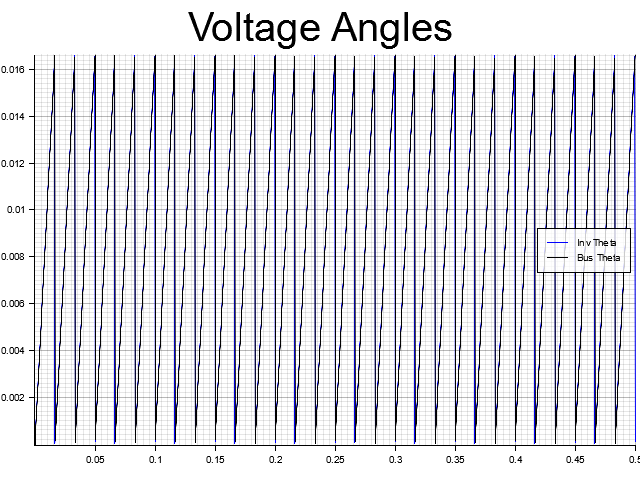
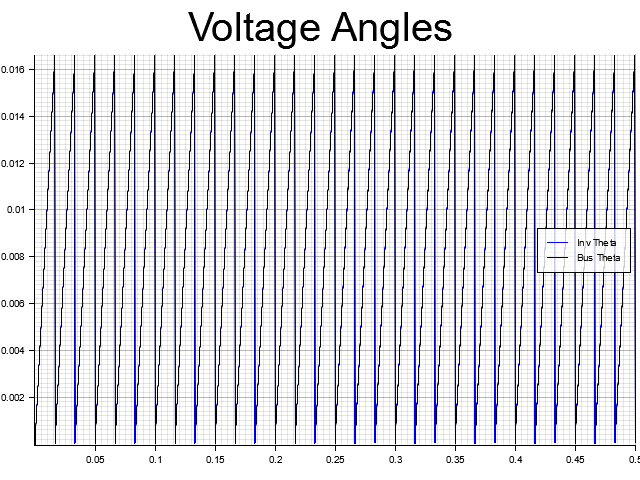
Test with I8F24 fixed-point

Changed region(s): [[0.0625, 0.1562, 1.0, 0.8438], [0.8438, 0.1562, 0.9062, 0.4688], [0.9375, 0.2188, 1.0, 0.5]]

diff --git a/src/main.rs b/src/main.rs
@@ -9,8 +9,8 @@ use unifi_gfm::refs::*;
 use unifi_gfm::sims::*;
 use unifi_gfm::constants::*;
 use fixed::traits::FromFixed;
-type FxdSim = fixed::types::I38F26;
-type FxdNum = fixed::types::I10F22; // TODO: Test with 32-bit fixed-point number and figure out what is overflowing (Seems to be related to current dynamics)
+type FxdSim = fixed::types::I32F32;
+type FxdNum = fixed::types::I8F24; // TODO: Test with 32-bit fixed-point number and figure out what is overflowing (Seems to be related to current dynamics)
 // TODO: Test how fast this runs with the package having a single fixed-point value selected (No / fewer conversions to fixed). 
 // Currently running this sim with I32F32 values takes ~20s
 
@@ -30,9 +30,8 @@ fn main() -> Result<(), Box<dyn std::error::Error>> {
     */
     let v_nom: f32 = 80.;
     let f_nom: f32 = 60.;
-    let f_nom: f32 = f_nom;
     let s_rated: f32 = 1000.;
-    let dt: f32 = 2.0e-4_f32;
+    let dt: f32 = 1.0e-4_f32;  // 10 kHz switching frequency
     let xi: f32 = 15.;
     let c: f32 = 0.2679;
     let _pi: f32 = PI.lossy_into();
@@ -96,14 +95,14 @@ fn main() -> Result<(), Box<dyn std::error::Error>> {
         // Step the system
         for n in 0..cont_n_steps {
             // Calculate power
-            let v = AlphaBeta::from_polar(FxdSim::from_fixed(inv.x[(0)]), FxdSim::from_fixed(inv.x[(1)] * inv.w_nom));
+            let v = AlphaBeta::from_polar(FxdSim::from_fixed(inv.x[(0)]), FxdSim::from_fixed(TWO)*FxdSim::from_fixed(PI) * FxdSim::from_fixed(inv.x[(1)] * inv.f_nom));
             let i = AlphaBeta::<FxdSim>::from_ab_(line.x[(0)], line.x[(1)]);
             (p, q) = calc_ab_power(v, i);
             p_values[(cont_n_steps*step + n) as usize] = (t + (n as f32)*cont_dt, p.lossy_into());
             q_values[(cont_n_steps*step + n) as usize] = (t + (n as f32)*cont_dt, q.lossy_into());
             bus.step_(cont_dt_);
-            line.step(cont_dt_, [FxdSim::from_fixed(inv.x[(0)]), FxdSim::from_fixed(inv.x[(1)] * inv.w_nom), 
-                                  bus.x[(0)], bus.x[(1)] * bus.w_nom]);
+            line.step(cont_dt_, [FxdSim::from_fixed(inv.x[(0)]), FxdSim::from_fixed(TWO)*FxdSim::from_fixed(PI) * FxdSim::from_fixed(inv.x[(1)] * inv.f_nom), 
+                                  bus.x[(0)], FxdSim::from_fixed(TWO)*FxdSim::from_fixed(PI) * bus.x[(1)] * bus.f_nom]);  // TODO: Determine why FxdSim::from_fixed(TWO*PI) overflows...
         }
 
         // Step the controller after a z^-1 delay

diff --git a/src/bin/droop_sim.rs b/src/bin/droop_sim.rs
@@ -10,7 +10,7 @@ use unifi_gfm::sims::*;
 use unifi_gfm::constants::*;
 use fixed::traits::FromFixed;
 type FxdSim = fixed::types::I32F32;
-type FxdNum = fixed::types::I10F22;  // TODO: Work on getting 32-bit fixed-point numbers to be accurate enough for the droop controller
+type FxdNum = fixed::types::I8F24;  // TODO: Work on getting 32-bit fixed-point numbers to be accurate enough for the droop controller
 
 const VOLTAGE_FILE_NAME: &'static str = "images/droop_sim_voltage.png";
 const THETA_FILE_NAME: &'static str = "images/droop_sim_thetas.png";
@@ -29,7 +29,7 @@ fn main() -> Result<(), Box<dyn std::error::Error>> {
     // let w_nom: f32 = f_nom * 2.*pi;
     let s_rated: f32 = 1000.;
     let z_base = 3. * v_nom * v_nom / s_rated;
-    let dt: f32 = 1.0e-4_f32;
+    let dt: f32 = 1.0e-4_f32;  // 10 kHz switching frequency
     let mp: f32 = 0.0026; // / w_nom;  // Does this coefficient need to be per-unitized?
     let mq: f32 = 0.005; // / v_nom;   // Does this coefficient need to be per-unitized?
     let f_c: f32 = 30.;  // Does this filter frequency need to be per-unitized?
@@ -90,14 +90,14 @@ fn main() -> Result<(), Box<dyn std::error::Error>> {
         // Step the system
         for n in 0..cont_n_steps {
             // Calculate power
-            let v = AlphaBeta::from_polar(FxdSim::from_fixed(inv.x[(0)]), FxdSim::from_fixed(inv.x[(1)] * inv.w_nom));
+            let v = AlphaBeta::from_polar(FxdSim::from_fixed(inv.x[(0)]), FxdSim::from_fixed(TWO)*FxdSim::from_fixed(PI) * FxdSim::from_fixed(inv.x[(1)] * inv.f_nom));
             let i = AlphaBeta::<FxdSim>::from_ab_(line.x[(0)], line.x[(1)]);
             (p, q) = calc_ab_power(v, i);
             p_values[(cont_n_steps*step + n) as usize] = (t + (n as f32)*cont_dt, p.lossy_into());
             q_values[(cont_n_steps*step + n) as usize] = (t + (n as f32)*cont_dt, q.lossy_into());
             bus.step_(cont_dt_);
-            line.step(cont_dt_, [FxdSim::from_fixed(inv.x[(0)]), FxdSim::from_fixed(inv.x[(1)] * inv.w_nom), 
-                                  bus.x[(0)], bus.x[(1)] * bus.w_nom]);
+            line.step(cont_dt_, [FxdSim::from_fixed(inv.x[(0)]), FxdSim::from_fixed(TWO)*FxdSim::from_fixed(PI) * FxdSim::from_fixed(inv.x[(1)] * inv.f_nom), 
+                                  bus.x[(0)], FxdSim::from_fixed(TWO)*FxdSim::from_fixed(PI) * bus.x[(1)] * bus.f_nom]);
         }
 
         // Step the controller after a z^-1 delay
